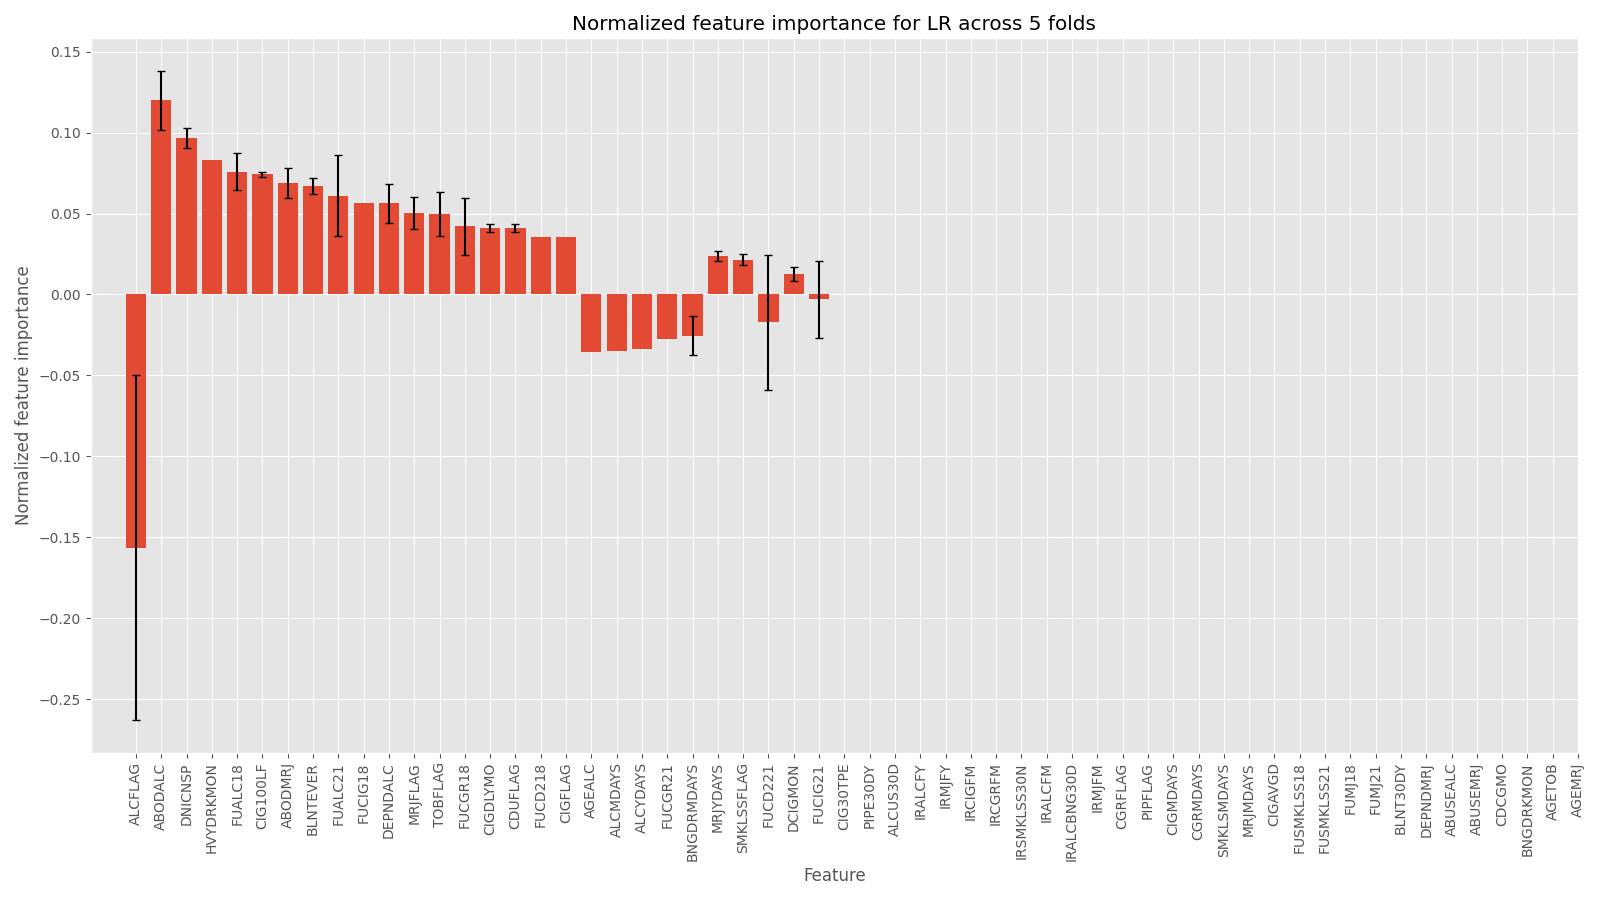
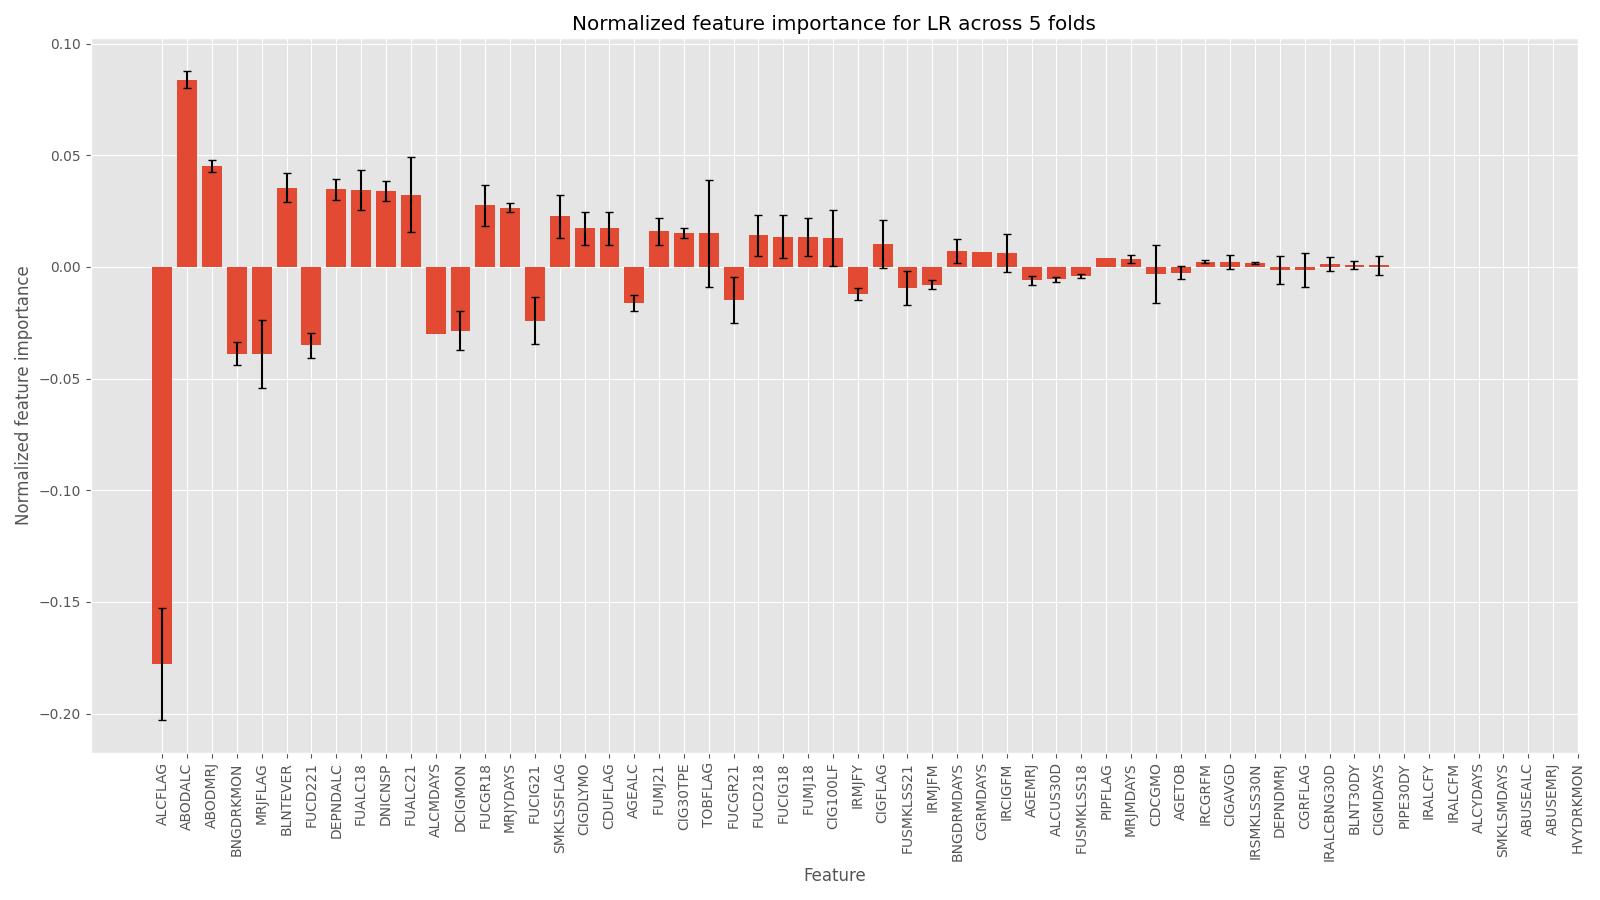
Feature selection mit bilder

diff --git a/Feature_Selection_2.py b/Feature_Selection_2.py
@@ -10,6 +10,7 @@ from sklearn.feature_selection import chi2, f_classif, SelectKBest, mutual_info_
 import scipy.stats as sts
 from sklearn.compose import ColumnTransformer
 from sklearn.metrics import roc_curve, auc, accuracy_score, precision_score, recall_score, f1_score, confusion_matrix,  precision_recall_curve, make_scorer
+from imblearn.under_sampling import RandomUnderSampler
 
 data = pd.read_csv('drug-use-health/data_new.csv', index_col=0)
 def add_identity(axes, *line_args, **line_kwargs):
@@ -90,6 +91,7 @@ def rough_filtering(df):
     df.drop(['IRSMKLSSTRY','IRCGRAGE','IRCIGAGE','BLNTAGE','IRMJAGE','IRCDUAGE'],axis=1,inplace=True)
     #Alter rausnehmen --> befindet sich in neuen Features als ordinal data
     df.drop(['IRTOBAGE', 'IRMJALLGAGE', 'IRALCAGE','ILLICITAGE'], axis=1, inplace=True)
+    df.dropna(inplace=True) #war vorher unten falls ihr es nicht selber implementiert habt dann hatte es noch missing values in eurem Datenset (sorry)
     return df
 
 
@@ -100,7 +102,7 @@ data = rough_filtering(data)
 
 #print(data.isna().sum().sort_values(ascending=False)/data.shape[0])
 
-data.dropna(inplace=True)
+#data.dropna(inplace=True)
 
 ordinal = []
 binary = []
@@ -113,79 +115,34 @@ for col in categorical:
 binary.remove('UDPYIEM')
 #onehotencoding nur für nominal data?
 #sonst ordinalencoder?
-"""
-num_cols = data.select_dtypes(include=['Int64','float64']).columns.tolist()
-#print(num_cols)
-cate_cols = data.select_dtypes(include=['object','category']).columns.tolist()
-cate_cols.remove('UDPYIEM')
-#print(cate_cols)
-X = data.drop('UDPYIEM',axis=1)
-y = data['UDPYIEM']
-statistic = pd.DataFrame(index = ['F-Statistic','p-value','Chi2 statistic','Ranksum'],columns = X.columns)
-normal = []
-alpha = 0.05 / data.shape[1]
-for col in num_cols:
-    group1 = X.loc[y.values== 1, col]
-    group2 = X.loc[y.values== 0, col]
-    p_val1 = sts.normaltest(group1).pvalue
-    p_val2 = sts.normaltest(group2).pvalue
-    if p_val1 < alpha or p_val2 < alpha:
-        statistic.loc['Ranksum',col] = sts.ranksums(group1, group2).statistic
-        statistic.loc['p-value',col] = sts.ranksums(group1, group2).pvalue
-        #nicht normal --> ranksum test
-    else:
-        normal.append(col)
 
-if len(normal) != 0:
-    f_statistic, p_values = f_classif(X[normal],y)
-    statistic.loc['F-Statistic',normal] = f_statistic
-    statistic.loc['p-value',normal] = p_values
-chi2_stats, p_values = chi2(X[cate_cols],y)
-statistic.loc['Chi2 statistic',cate_cols] = chi2_stats
-statistic.loc['p-value', cate_cols] = p_values
-print(statistic.loc['p-value',:].sort_values(ascending=False))
-
-plt.figure(figsize=(9,4))
-plt.bar(statistic.loc['p-value',:].sort_values(ascending=False).index, statistic.loc['p-value',:].sort_values(ascending=False))
-plt.xticks(statistic.loc['p-value',:].sort_values(ascending=False).index, rotation=90)
-plt.ylabel('p-value')
-plt.xlabel('Features')
-plt.title('p-values of the Features \n(for (rough) feature filtering)')
-plt.axhline(alpha, linestyle='--', color='r', label='Significance level')
-plt.legend()
-plt.tight_layout()
-plt.savefig('figures/p-value-distribution.png')
-pvalues = statistic.loc['p-value',:]
-"""
 tests = ['f_classif', 'chi2', 'mututal_info_classif']
 #accuracy direkt rausnehmen
-metrics = {'precision':[], 'recall':[], 'specificity':[],'f1':[], 'roc_auc':[]}
-def eval(y,X,clf,ax,legend_entry='my legendEntry'):
+#metrics = {'accuracy':[],'precision':[], 'recall':[], 'specificity':[],'f1':[], 'roc_auc':[]}
+def eval(y,X,clf,ax,legend_entry='my legendEntry', model_name = 'MyModel'):
     y_pred = clf.predict(X)
     y_pred_proba = clf.predict_proba(X)[:,1]
     tn, fp, fn, tp = confusion_matrix(y, y_pred).ravel()
 
     #accuracy prolly useneh --> unbalanced also wird eh nicht viel aussagen
-    #accuracy = accuracy_score(y, y_pred)
+    accuracy = accuracy_score(y, y_pred)
     precision = precision_score(y,y_pred)
     recall = recall_score(y,y_pred)
     f1 = f1_score(y,y_pred)
     specificity = tn / (tn + fp)
-    fp_rates, tp_rates = roc_curve(y, y_pred_proba)
+    fp_rates, tp_rates, _ = roc_curve(y, y_pred_proba)
 
     roc_auc = auc(fp_rates,tp_rates)
-    ax.plot(fp_rates, tp_rates, label=f'Classifier fold {legend_entry} ')
-    return [precision,recall,specificity,f1,roc_auc]
+    ax.plot(fp_rates, tp_rates)
+    ax.set_title(f'ROC curve for fold {legend_entry}\n({model_name})')
+    return [accuracy,precision,recall,specificity,f1,roc_auc], confusion_matrix(y, y_pred)
 
 def selection(X_train,y_train,how,n,what,ax, title='entry'):
     #um von allen den score zu erhalten eifach n= 'all' setzen
     #how möglichkeiten: [chi2,f_classif,mutual_info_classif] also oben bei tests = ...
-    UVFS_Selector = SelectKBest(score_func=how, k=n)
+    UVFS_Selector = SelectKBest(score_func=how, k=n).set_output(transform="pandas")
     X_selected = UVFS_Selector.fit_transform(X_train,y_train)
-    #if what == 'test':
-        # in vorlesung zu Categorical output und numerical input kendall benutzen, wie? --> Zu kompliziert
-        # vorallem wären hier scores wichtig, welchen test für nicht normalverteilte?
-        #return UVFS_Selector
+
     if what == 'auswertung':
         return X_selected, UVFS_Selector
     #wenn what == mututal info nicht besten direkt suchen sondern alle werden bewertet --> evt einfacher zum nachher plotten
@@ -205,7 +162,6 @@ def selection(X_train,y_train,how,n,what,ax, title='entry'):
         #ax.bar(UVFS_Selector.feature_names_in_ , UVFS_Selector.scores_)
         ax.bar(feature_sel.index, feature_sel)
         ax.set_title(f'Feature scores for fold {title}')
-        #ax.set_xticks(np.arange(len(UVFS_Selector.feature_names_in_)), UVFS_Selector.feature_names_in_, rotation=90)
         ax.set_xticks(np.arange(len(UVFS_Selector.feature_names_in_)),feature_sel.index, rotation=90)
         ax.set_xlabel('Features')
         ax.set_ylabel('Scores')
@@ -239,13 +195,15 @@ def hyper(X,y,model,parameters,cv):
     #return [clf_GS.best_estimator_ , clf_GS.best_score_]
 
 def everything(data, model,param, random,what):
-    performance = pd.DataFrame(columns=['fold','clf','precision','recall',
-                                         'specificity','F1','roc_auc'])
+    metrics=['accuracy', 'precision', 'recall', 'specificity','F1', 'roc_auc']
+    performance = pd.DataFrame(columns=['fold','accuracy','precision','recall','specificity','F1','roc_auc'])
     num_cols = data.select_dtypes(include=['Int64','float64']).columns.tolist()
     cate_cols = data.select_dtypes(include=['object','category']).columns.tolist()
     cate_cols.remove('UDPYIEM')
     X = data.drop('UDPYIEM',axis=1)
     y= data.UDPYIEM
+    undersampler = RandomUnderSampler(random_state=42)
+    X, y = undersampler.fit_resample(X, y)
     ordinal = []
     nominal = []
     for col in cate_cols:
@@ -257,10 +215,13 @@ def everything(data, model,param, random,what):
     cv = StratifiedKFold(n_splits=splits, shuffle=True, random_state=random)
     fold = 0
     tuning = pd.DataFrame(columns=list(param.keys()),index=np.arange(splits))
+    model_name = str(input("Which Model used? "))
     #Figures für die Feature selection bilder
     fig,axs = plt.subplots(5,1,figsize=(30,25))
+    fig2, axs2 = plt.subplots(1,5,figsize=(16,10))
     zeros = np.zeros((splits,len(X.columns.tolist())),dtype=int)
     selected_features = pd.DataFrame(zeros, index=np.arange(splits),columns = X.columns)
+    confusion_matrices = []
     #aus Homework 5
     LR_normcoef = pd.DataFrame(index=X.columns,columns=np.arange(splits))
     for train_index, test_index in cv.split(X,y):
@@ -285,10 +246,15 @@ def everything(data, model,param, random,what):
         X_test = transformer.transform(X_test)
         all_columns_test = ordinal_test + num_cols_test
         X_test = pd.DataFrame(X_test, columns=all_columns_test, index=X_test_copy.index)
-        X_test = pd.concat([X_test,X_test_copy[nominal_test]])
+        X_test = pd.concat([X_test,X_test_copy[nominal_test]],axis=1)
+        #Da im test set nicht immer alle categories vorhanden sind gibt es im test set auch NaN values --> die muss man zuerst rausnehmen um das test set bezüglich der feature selection anpassen zu können(transform)
+        #print(X_test.isna().sum())
+        idxmissing= list(X_test.isna().any(axis=1).index[X_test.isna().any(axis=1).values])
+        y_test.drop(index=idxmissing,inplace=True)
+        X_test.dropna(axis=0, inplace=True)
+
         #hyperparameter welcher am besten passt finden und in tuning speichern --> am schluss schauen und according zu dem die Hyperparameter setzen:
         tuning.loc[fold,list(param.keys())] = list(map(hyper(X_train,y_train,model,param,5).best_estimator_.get_params().get, list(param.keys())))
-
         #feature selection (filter method)
 
         #bild welches für alle 5 folds die Feature scores zeigt --> anschauen und dann auswählen welche am besten sind
@@ -303,35 +269,38 @@ def everything(data, model,param, random,what):
         #grobe Feature Selection (Univariate feature selection --> jztmal die 45 besten auswählen --> da in allen 5 folds ungefähr die gleichen gut
         X_train_UVFS, UVFS_Selector = selection(X_train,y_train,mutual_info_classif,45,'auswertung',axs,title='entry')
         clf = model
+        #hier embedded Feature selection
+        #sel_ = SelectFromModel(clf).set_output(transform="pandas")
+        sel_ = SelectFromModel(clf)
+        sel_.fit(X_train_UVFS,y_train)
         clf.fit(X_train_UVFS,y_train)
 
         #hier wenn ich Logistic Regression mache dass es die Feature importance (normalized) abspeichert um nachher ein barplot damit zu machen um die besten zu sehen
         LR = 'LogisticRegression'
         which_model = str(model)
         if LR in which_model:
-            this_LR_coefs = pd.DataFrame(zip(list(UVFS_Selector.get_feature_names_out()), np.transpose(clf.coef_[0])),columns=['features','coef'])
-            LR_normcoef.loc[list(UVFS_Selector.get_feature_names_out()),fold] = this_LR_coefs['coef'].values/this_LR_coefs['coef'].abs().sum()
-        sel_ = SelectFromModel(clf, prefit=True)
-        sel_.fit(X_train_UVFS,y_train)
+            #this_LR_coefs = pd.DataFrame(zip(list(UVFS_Selector.get_feature_names_out()), np.transpose(clf.coef_[0])),columns=['features','coef'])
+            #LR_normcoef.loc[list(UVFS_Selector.get_feature_names_out()),fold] = this_LR_coefs['coef'].values/this_LR_coefs['coef'].abs().sum()
+            this_LR_coefs = pd.DataFrame(zip(X_train_UVFS.columns, np.transpose(clf.coef_[0])),columns=['features', 'coef'])
+            LR_normcoef.loc[X_train_UVFS.columns, fold] = this_LR_coefs['coef'].values / this_LR_coefs['coef'].abs().sum()
+        #sel_ = SelectFromModel(clf, prefit=True).set_output(transform="pandas")
+        #sel_.fit(X_train_UVFS,y_train)
+
         X_train_L1 = sel_.transform(X_train_UVFS)
-        clf.fit(X_train_L1,y_train)
-        #X_test_UVFS = UVFS_Selector.transform(X_test)
-        #sel_ = SelectFromModel(clf, prefit=True)
-        #selected_features.loc[fold, list(sel_.get_feature_names_out())] += 1
 
-        #X_train = sel_.transform(X_train_UVFS)
-        #X_test = sel_.transform(X_test_UVFS)
+        X_test_UVFS = UVFS_Selector.transform(X_test)
+        selected_features.loc[fold, list(sel_.get_feature_names_out())] += 1
+        #selected_features.loc[fold, X_train_L1.columns] += 1
+        clf_L1 = model
+        clf_L1.fit(X_train_L1,y_train)
+        X_test_L1 = sel_.transform(X_test_UVFS)
 
-        #eval_metrics = eval(y_train,X_train_UVFS,)
-
-
-
-
-
-
+        #Performance evaluation
+        eval_metrics, cm = eval(y_test,X_test_L1,clf_L1,axs2[fold],legend_entry=str(fold+1),model_name = model_name)
+        performance.loc[len(performance),:] = [fold]+eval_metrics
+        confusion_matrices.append(cm)
 
         fold+=1
-        #what eingeben um vorher zu wissen welche Hyperparameter ihr verwenden wollt
     if what == 'hyperparameter':
         return tuning.value_counts().head(1)
     if what == 'feature selection':
@@ -351,7 +320,50 @@ def everything(data, model,param, random,what):
         plt.tight_layout()
         plt.savefig('figures/Feature_Importance_LR.png')
     if what == 'selected Features':
-        print(selected_features.sum(axis=1))
+        plt.figure(figsize=(16,9))
+        plt.style.use('ggplot')
+        plt.bar(selected_features.sum(axis=0).sort_values(ascending=False).index, selected_features.sum(axis=0).sort_values(ascending=False))
+        plt.xticks(np.arange(len(selected_features.sum(axis=0))), selected_features.sum(axis=0).sort_values(ascending=False).index, rotation=90)
+        plt.title('How often these Features were selected in the 5 Folds (with SelectFromModel())')
+        plt.xlabel('Features')
+        plt.ylabel('Count')
+        plt.tight_layout()
+        plt.savefig('figures/Feature_Counts.png')
+        #print(selected_features.sum(axis=0).sort_values(ascending=False))
+    if what == 'evaluation':
+        for i, ax in enumerate(axs2):
+            ax.set_xlabel('False Positive Rate')
+            ax.set_ylabel('True Positive Rate')
+            add_identity(ax, color='r', ls='--', label = 'random\nclassifier')
+            plt.legend(loc='best')
+
+        plt.tight_layout()
+        if model_name == 'Logistic Regression':
+            plt.savefig('figures/roc_curve_LR.png')
+        if model_name == 'KNearest':
+            plt.savefig('figures/roc_curve_KN.png')
+        #eure model_names :) ...
+        ##if model_name == ...:
+
+        ##if model_name == ...:
+        fig_cm, axs_cm = plt.subplots(1, splits, figsize=(15, 5))
+        for i, cm in enumerate(confusion_matrices):
+            sns.heatmap(cm, annot=True, fmt='d', cmap='Blues', ax=axs_cm[i])
+            axs_cm[i].set_title(f'Confusion Matrix\n({model_name}) for Fold {i + 1}')
+            axs_cm[i].set_xlabel('Predicted Label')
+            axs_cm[i].set_ylabel('True Label')
+
+        plt.tight_layout()
+        if model_name == 'Logistic Regression':
+            plt.savefig('figures/confusion_matrices_LR.png')
+        if model_name == 'KNearest':
+            plt.savefig('figures/confusion_matrices_knearest.png')
+        #eure model_names :) ...
+        ##if model_name == ...:
+
+        ##if model_name == ...:
+        for item in metrics:
+            print('{} {}: {:.3f} ± {:.3f}'.format(model_name,item.capitalize(), performance[item].mean(axis=0),performance[item].std(axis=0)))
 #bevor implementieren schauen welche parameter auswählen damit man die eingeben kann
 #embedded methods für feature selection abhängig von der model wahl --> z.b. bei logistic regression lasso, ridge möglich; bei Random Forest feature importance (alles durch die Funktion SelectFromModel(model([hypterparameters().best_params_]])) = irgendwas --> das dann .fit etc
 #SelectFromModel() kann bei allen estimators verwendet werden welche attribute coef_ oder feature_importances_ hat
@@ -361,4 +373,7 @@ parameter ={'C':[0.001,0.01,0.1,1,10]}
 #print(everything(data,LogisticRegression(class_weight='balanced',max_iter=1000),parameter,1, 'hyperparameter'))
 #C=0.1 am besten
 #everything(data,LogisticRegression(class_weight='balanced',max_iter=1000, C=0.1),parameter,1,'feature selection')
-everything(data,LogisticRegression(class_weight='balanced',max_iter=1000, C=0.1),parameter,1,'feature importance LR')
+#everything(data,LogisticRegression(class_weight='balanced',max_iter=1000, C=0.1),parameter,1,'feature importance LR')
+#everything(data,LogisticRegression(class_weight='balanced',max_iter=1000, C=0.1),parameter,1,'selected Features')
+everything(data,LogisticRegression(class_weight='balanced',max_iter=1000, C=0.1),parameter,1,'evaluation')
+
